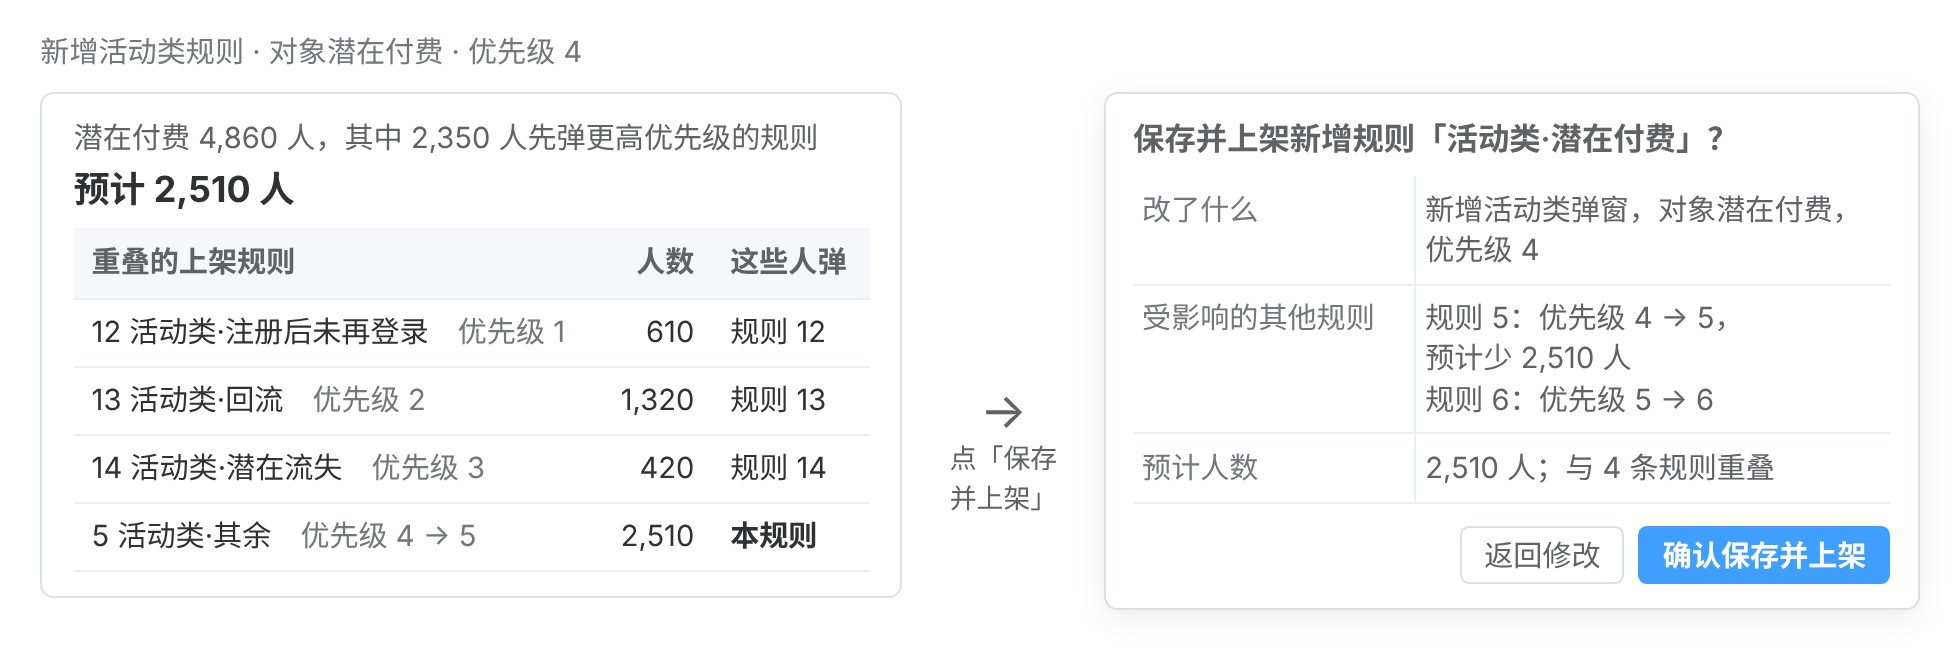
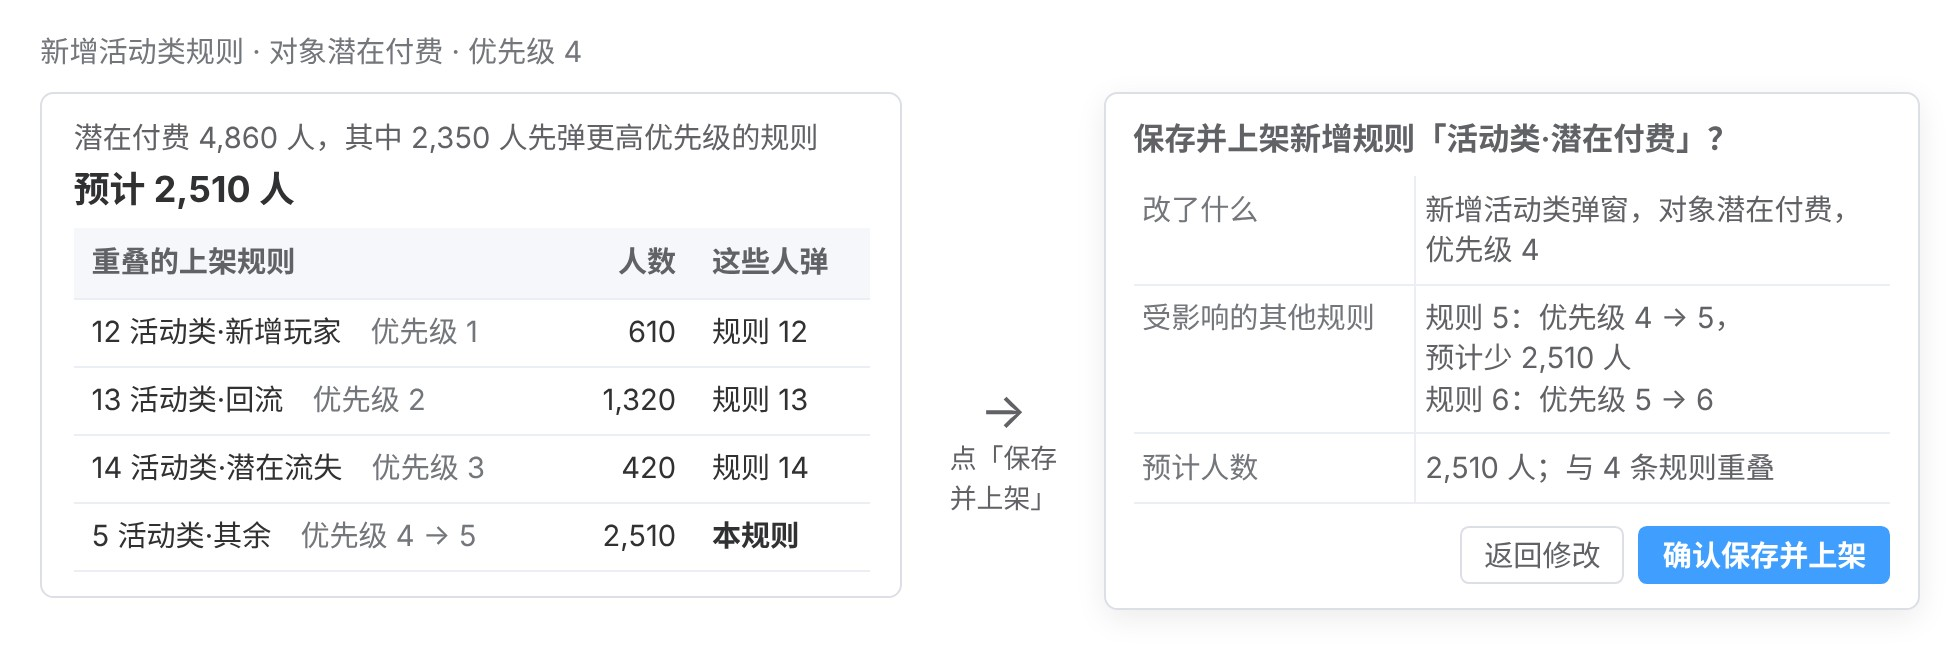
需求评审版第二轮进行中：截图 03、04、11、17 修改
Claude-Session: https://claude.ai/code/session_01JtVy4xu4oTwDzwihYuUW45

diff --git a/弹窗标签推送系统/推送系统后台集成需求/需求评审版_原型/11_保存确认.html b/弹窗标签推送系统/推送系统后台集成需求/需求评审版_原型/11_保存确认.html
@@ -24,7 +24,7 @@ body{font-family:"Inter","Noto Sans CJK SC","PingFang SC","Microsoft YaHei",sans
         <div style="font-size:16px;font-weight:700;color:var(--ink);margin:2px 0 4px">预计 2,510 人</div>
         <table class="tb" style="margin-top:4px">
           <tr><th>重叠的上架规则</th><th style="text-align:right">人数</th><th style="white-space:nowrap">这些人弹</th></tr>
-          <tr><td>12 活动类·注册后未再登录<span class="mute">　优先级 1</span></td><td style="text-align:right">610</td><td style="white-space:nowrap">规则 12</td></tr>
+          <tr><td>12 活动类·新增玩家<span class="mute">　优先级 1</span></td><td style="text-align:right">610</td><td style="white-space:nowrap">规则 12</td></tr>
           <tr><td>13 活动类·回流<span class="mute">　优先级 2</span></td><td style="text-align:right">1,320</td><td style="white-space:nowrap">规则 13</td></tr>
           <tr><td>14 活动类·潜在流失<span class="mute">　优先级 3</span></td><td style="text-align:right">420</td><td style="white-space:nowrap">规则 14</td></tr>
           <tr><td>5 活动类·其余<span class="mute">　优先级 4 → 5</span></td><td style="text-align:right">2,510</td><td style="white-space:nowrap;font-weight:600">本规则</td></tr>

diff --git a/弹窗标签推送系统/分析/需求评审版_改版记录.md b/弹窗标签推送系统/分析/需求评审版_改版记录.md
@@ -39,7 +39,7 @@
 - 03_按行为：「提醒次数　每次触发最多提醒 1 次，同一玩家两次提醒至少间隔 24 小时」→「提醒间隔　同一玩家两次提醒至少间隔 24 小时」，不再有每次触发最多提醒几次。
 - 17_快显：同 03，改为「提醒间隔　同一玩家两次提醒至少间隔 24 小时」。
 - 04_上限勿扰：标题「消息类别　游戏外推送两种（推播、短信）」→「消息类别　营销、服务通知两种」，下面另起一行「适用推送方式　推播　短信」；表里行名「适用」→「适用内容」，避免和推送方式混。
-- 11_保存确认：规则 12 的名称「活动类·新增玩家」→「活动类·注册后未再登录」，不会被读成全部新玩家（对应正文新标签「新增玩家两档」改名后的叫法，具体用哪个名字以正文为准，要改只改这一处再重截）。
+- 11_保存确认：规则 12 的名称保持「活动类·新增玩家」（先改成「活动类·注册后未再登录」，主对话指出「新增玩家」是五类人群之一的名称，正文第 6 页和 13 号图都这么叫，要改名的只是第 1 页的两个标签，已改回）；本图这一轮无变化。
 - 10_规则编辑：本来就没有「实验分组」，高级设置只写「已设 2 项（每人总次数、关闭后冷却）」，不用改；「潜在流失·实验组」是标签群组名，按指示保留。
 - 16_短信：图里没有「按人记录」，不用改。01、02：没有「新增玩家两档」这类标签名，也没有「随机分桶号」，不用改。
 - 12 个源文件 grep「提醒次数、最多提醒、实验分组、按人记录、新增玩家、随机分桶」均为 0。
@@ -130,6 +130,8 @@ A 里又试了三种画法：A2 推播、短信都画成实心色块——短信
 - 参考库评-13 的「采纳」写法还画了礼包后台、营销侧排程，这里没画，按任务说明甲只画会员标签设定。
 
 交付前必查：第 1 条（边界看得见）过——外框、三块容器、框外系统一眼可见，没有页码或目录式说明；第 3 条（措辞）过——两栏短语照已定事项第 24 条原意，读者测试复述一致；第 4 条（只写有效信息）过——没有图例、说明小字、过程痕迹、Facebook、LINE；第 6 条（阅读体验）过——一屏 980×656，1280 宽仍可读；第 7 条（读者最先看的地方）首屏是总标题、「后台结构」和截图，截图待 B 出图后再看一次。第 2、5、8、9 条本节不适用（没改页标题，没加功能）。
+
+审读后第二轮：按玩家分群配置弹窗、玩家查询、操作纪录三个框加高成两行，第二行是灰色小签「现有页面改造」（浅灰底、灰描边、灰字，与框外「会员标签设定（现有后台）」同一组灰色），其余 10 个框不加标记；两类共用一行四框同高，结构图变为 980×674；悬停填色时灰签照常可读；截图自查 `/tmp/claude-0/archC/R4_section.png`（此时 B 的 `00_后台首页.jpg` 已在，左侧菜单与结构图逐项对得上）、`/tmp/claude-0/archC/R4_hover.png`。
 
 ### D 正文与折叠
 
